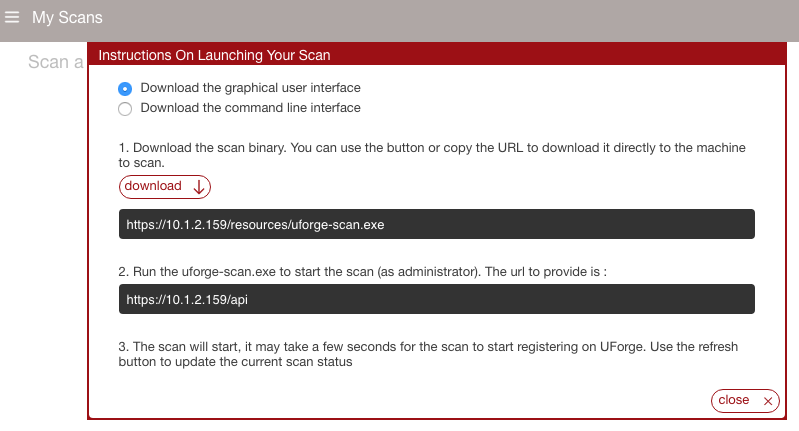
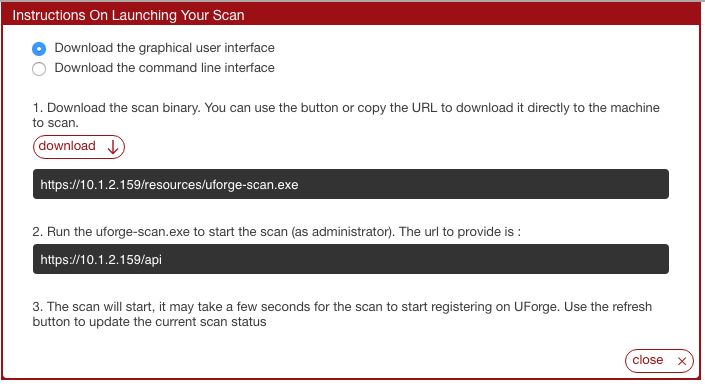
new graphics for replatform and integrate review comments

diff --git a/end-user/en/source/pages/getting-started.rst b/end-user/en/source/pages/getting-started.rst
@@ -20,15 +20,14 @@ The UForge Portal has the following pages, accessible from the left-hand sidebar
 	* ``Apps``: This is where your appliances are created and listed. You also go to this page to add custom software, update packages in appliances, and create images, among other things.
 	* ``Deployments``: This area lists published images that have at least one instance running on Amazon, OpenStack, Cloudstack and Microsoft Azure Resource Manager. This menu is only visible if you have the correct entitlements. Contact your UForge administrator for more information.
 	* ``Collaboration``: This is a private area where you can share appliances with other users who are part of your workspace. These users must be invited and join your workspace. They can be part of your organization or part or another organization.
-	* ``Scans``: This is where you can launch a scan of a live system in order to migrate, view the results, or compare scans.
-	* ``Migration``: This is where you can launch an automated migration.
+	* ``Migrations``: This is where you can launch a migration or scan.
 	* ``Credentials``: This is where you manage your cloud account information, SSH keys and API keys.
 	* ``Profile``: This is your UForge account information.
 	* ``Administration``: (only for administrators of platform).  Provides administration tasks including operating system and formats management.
 
 .. warning:: Depending upon your access rights one or more of these tabs may not be visible.
 
-.. image:: /images/uforge-sidebar-migrate.png
+.. image:: /images/uforge-sidebar-migrate2.png
 
 .. _uforge-supported-browsers:
 

diff --git a/end-user/en/source/pages/migration/whitebox-migration.rst b/end-user/en/source/pages/migration/whitebox-migration.rst
@@ -33,7 +33,7 @@ As part of this transformation process, the scan information is mapped to one or
 
 Once the scan report has been imported as an appliance template, you can update the content prior to generating a machine image.
 
-The generation process is slightly different between blackbox and whitebox migration. Using ``Re-platform``, UForge is not generating a machine image from a scan report, rather from an appliance template. You can add and remove packages at will from the OS Profile layer.  Consequently package dependencies are calculated using the list of packages in the OS Profile. Any missing packages from the OS Profile are added prior to generating the machine image.  
+The generation process is slightly different between black box and white box migration. Using ``Re-platform``, UForge is not generating a machine image from a scan report, rather from an appliance template. You can add and remove packages at will from the OS Profile layer.  Consequently package dependencies are calculated using the list of packages in the OS Profile. Any missing packages from the OS Profile are added prior to generating the machine image.  
 
 
 

diff --git a/end-user/en/source/pages/migration/migration-details.rst b/end-user/en/source/pages/migration/migration-details.rst
@@ -11,7 +11,7 @@ The entire migration process using ``Re-platform`` (previously referred to as ''
 	2. Report the scan results to UForge AppCenter, where the platform analyzes the report. The scan differentiates between known packages and extra files. 
 	3. The results are used to build an archive. The extra files are only included in the archive if the user is performing a scan with overlay. The archive is sent back to the platform.
 	4. The archive is uncompressed, and the information is stored in the database as a ``Scan``.
-	5. The scan can be used to generate machine images (also known as blackbox migration) or imported to create a new appliance template (also known as whitebox migration). The generated machine image can then be published to the target environment and instances can be provisioned.
+	5. The scan can be used to generate machine images (also known as black box migration) or imported to create a new appliance template (also known as whitebox migration). The generated machine image can then be published to the target environment and instances can be provisioned.
 
 .. _migration-prereq:
 

diff --git a/end-user/en/source/pages/migration/overview.rst b/end-user/en/source/pages/migration/overview.rst
@@ -7,8 +7,8 @@ Migrating Live Workloads
 
 UForge AppCenter offers the capability to migrate a live system using two different methods:
 
-* using ``Re-platform``. This was previously refered to as ``Scan``. In this case there are three steps to migration: scan, generate and publish. Each step is done seperately by the user. When using scan to migrate, you can modify the appliance prior to the final migration.
-* using ``Lift & Shift``. This was previously refered to as ``Migrate``. This automated process is only possible for Linux and certain target platforms.
+* using ``Re-platform``. In this case there are three steps to migration: scan, generate and publish. Each step is done seperately by the user. When using scan to migrate, you can modify the appliance prior to the final migration.
+* using ``Lift & Shift``. This automated process is only possible for Linux and certain target platforms.
 
 In both cases, UForge will "deep scan" a live system and report back the meta-data of every file and package that makes up the running workload.
 

diff --git a/end-user/en/source/pages/migration/scan-details.rst b/end-user/en/source/pages/migration/scan-details.rst
@@ -15,11 +15,11 @@ To view the details of a scanned Linux-based instance:
 	1. Go to the ``Re-platform`` tab on the ``Migrations`` page.
 	2. Click on the scan to view the details. 
 
-	.. image:: /images/scan-view-details.png
+	.. image:: /images/scan-view-details2.png
 
 	3. All of the packages and non-native files are listed under the ``Packages`` tab.
 
-	.. image:: /images/scan-packages.png
+	.. image:: /images/scan-packages2.png
 
 	4. You can also filter the packages that have been modified (UForge AppCenter compares the packages scanned with its repo) by checking ``Only show the packages with changes``.
 	5. To view the details of a package, click on the package name and then the arrow.

diff --git a/end-user/en/source/pages/migration/scan-compare.rst b/end-user/en/source/pages/migration/scan-compare.rst
@@ -13,13 +13,13 @@ From the ``Re-platform`` tab on the ``Migrations`` page:
 
 	1. Click on the ``compare`` button (balance icon) at the top right hand side of the ``Re-platform`` page.
 
-	.. image:: /images/scan-compare-icon2.png
+	.. image:: /images/replatform-compare-icon.png
 
 	2. Select the source and target scan. 
 
 		.. warning:: The source and target scan must be of the same type. For example, if the source scan is a scan with overlay, then it must be compared to a scan with overlay. Similarly, a scan without overlay can only be compared to a scan without overlay.
 
-	.. image:: /images/scan-compare2.png
+	.. image:: /images/replatform-compare.png
 
 	3. Click ``compare``.
 

diff --git a/end-user/en/source/pages/migration/blackbox-migration.rst b/end-user/en/source/pages/migration/blackbox-migration.rst
@@ -2,8 +2,8 @@
 
 .. _migration-process-blackbox:
 
-Blackbox Migration Process
---------------------------
+Black box Migration Process
+---------------------------
 
 The goal of black box migration (either using ``Re-platform`` or ``Lift & Shift``) is to reproduce a near identical copy of the currently running workload.  However, there will always be small differences between the two workloads after migration is complete, notably some services are disabled or enabled depending on the target machine image being created (refer to :ref:`service-state`). For more information on the differences after migration, refer to :ref:`source-target-diffs`. 
 

diff --git a/end-user/en/source/pages/migration/scan-to-appliance.rst b/end-user/en/source/pages/migration/scan-to-appliance.rst
@@ -15,7 +15,7 @@ From the ``Re-platform`` tab on the ``Migrations`` page:
 
 	.. note:: If you have administrator rights, for a Windows scan you can choose to import as appliance or import scan as a golden image. For more information, refer to the Admin guide.
 
-	.. image:: /images/scan-import2.png
+	.. image:: /images/replatform-import.png
 
 	3. Enter the appliance name and version.
 	4. Click ``import``. The progress will be shown under the ``Imports`` tab. Once complete you can find the appliance also under the ``Apps`` tab, under ``Imported Appliances``.

diff --git a/end-user/en/source/pages/migration/source-target-diffs.rst b/end-user/en/source/pages/migration/source-target-diffs.rst
@@ -23,7 +23,7 @@ Consequently networking configuration files including ``/etc/hosts`` may be diff
 Network Device Name
 ~~~~~~~~~~~~~~~~~~~
 
-Currently, the network device name is renamed after a blackbox migration. The new device name will be ``eth0``, regardeless of the name prior to the migration.
+Currently, the network device name is renamed after a black box migration. The new device name will be ``eth0``, regardeless of the name prior to the migration.
 
 .. _generation-libraries-added:
 

diff --git a/end-user/en/source/pages/migration/scan-view.rst b/end-user/en/source/pages/migration/scan-view.rst
@@ -9,7 +9,7 @@ Once you have run a scan, you can view the scan details.
 
 To view the scans, go to the ``Re-platform`` tab on the ``Migrations`` page.  All the scans are listed by name. If you have run the same scan with the same name, it will appear as Scan <number>.
 
-.. image:: /images/scan-list.png
+.. image:: /images/scanned-nodes.png
 
 From this page you can:
 

diff --git a/end-user/en/source/pages/migration/scan-to-image.rst b/end-user/en/source/pages/migration/scan-to-image.rst
@@ -15,7 +15,7 @@ To create an image from a scan:
 	2. Click on the scan to view details.
 	3. Click on the ``generate`` icon in the top right.
 
-	.. image:: /images/scan-generate-image2.png
+	.. image:: /images/replatform-generate.png
 
 	4. Select the image format you want.
 	5. Click ``Generate``.
